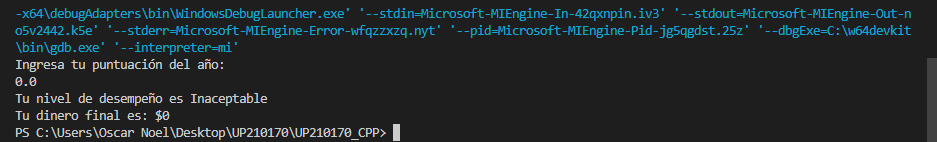
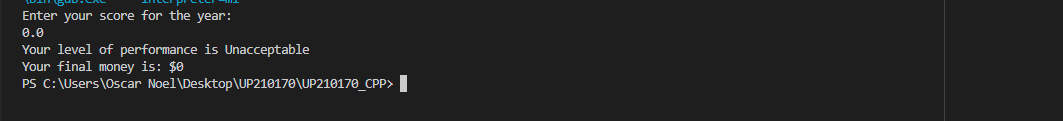
Unidad 2

diff --git a/U2/04_Pizzeria.cpp b/U2/04_Pizzeria.cpp
@@ -27,35 +27,34 @@ using namespace std;
 int main (){
     int pizza;
     int ingrediente;
-    string ingre = "Pimiento" "Tofu";
-    string ingreno = "Peperoni" "Jamón" "Salmón";
-    string pizzav = "Vegetariana";
-    string pizzan = "No Vegetariana";
+    string ingre = "Pimiento" "Tofu" "Peperoni" "Jamón" "Salmón";
+    string pizzav = "Vegetarian" "No Vegetarian";
     char nombre [20];
 
-    cout << "BIENVENIDOS A PIZZAS ROBERT " << endl;
+    cout << " WELCOME TO PIZZAS ROBERT " << endl;
     cout << "------------------------------------" << endl;
 
     //Input
-    cout << "\nSea usted bienvenido, Cuál es su nombre?" << endl;
+    cout << "\nWelcome, What her name?" << endl;
     cin >> nombre;
 
 
-    cout << "\n\n Menú de opciones" << endl;
-    cout << "1. Vegetariana" << endl;
-    cout << "2. No Vegetariana" << endl;
+    cout << "\n\n Option Menu" << endl;
+    cout << "1. Vegetarian" << endl;
+    cout << "2. No Vegetarian" << endl;
 
-    cout << "\n\nIngrese una opcion de pizza: " << endl;
+    cout << "\n\nEnter a pizza option: " << endl;
     cin >> pizza;
     
     //Processing 
     if((pizza == 1) || (pizza == 2)){
         if (pizza == 1){
-        cout << "\nIngredientes de una pizza vegetariana, que incluye (Mozarella y Tomate) Elige uno: " << endl;
+        pizzav = "Vegetarian";
+        cout << "\nIngredients of a vegetarian pizza, it includes (Mozarella y Tomate) choose one: " << endl;
         cout << "1. Pimiento" << endl;
         cout << "2. Tofu" << endl;
 
-        cout << "\nIngrediente que deseas agregar:" << endl;
+        cout << "\nIngredient you want to add:" << endl;
         cin >> ingrediente;
 
         if(ingrediente == 1){
@@ -65,41 +64,41 @@ int main (){
             ingre = "Tofu";
         }
 
-        //Output
-        cout << "\nEstimado cliente " << nombre << endl;
-        cout << "Su orden es: " << endl;
-        cout << "Una pizza " << pizzav << endl;
-        cout << "Con estos ingredientes Mozarella, Tomate y " << ingre << endl;
+ 
+      
        }
 
 
        if(pizza == 2){
-        cout << "\nIngredientes de una pizza no vegetariana, que incluye (Mozarella y Tomate) Elige uno: " << endl;
+        pizzav = "No Vegetarian";
+        cout << "\nIngredients of a no vegetarian pizza, it includes (Mozarella y Tomate) choose one: " << endl;
         cout << "1. Peperoni" << endl;
         cout << "2. Jamón" << endl;
         cout << "3. Salmón" << endl;
 
-        cout << "\nIngrediente que deseas agregar:" << endl;
+        cout << "\nIngredient you want to add:" << endl;
         cin >> ingrediente;
         
         if(ingrediente == 1){
-            ingreno = "Peperoni";
+            ingre = "Peperoni";
         }
         else if(ingrediente == 2){
-            ingreno = "Jamón";
+            ingre = "Jamón";
         }
         else if(ingrediente == 3){
-            ingreno = "Salmón";
+            ingre = "Salmón";
         }
  
-        //Output
-        cout << "\nEstimado cliente " << nombre << endl;
-        cout << "Su orden es: " << endl;
-        cout << "Una pizza " << pizzan << endl;
-        cout << "Con estos ingredientes Mozarella, Tomate y " << ingreno << endl;
-
        }
-       cout << "\n¡GRACIAS POR SU PREFERENCIA!" << endl;
+
+        //Output
+       cout << "\nDear Customer " << nombre << endl;
+       cout << "Your order is: " << endl;
+       cout << "A pizza of " << pizzav << endl;
+       cout << "With these ingredients Mozarella, Tomate y " << ingre << endl;
+       cout << "\n¡Thanks for your preference!" << endl;
+
+
     }else {
         cout << "El valor ingresado no se encontro" << endl;
     }

diff --git a/U2/02_Beneficios.cpp b/U2/02_Beneficios.cpp
@@ -36,7 +36,7 @@ int main(){
     double sueldo1;
 
     //request his annual score 
-    cout << "Ingresa tu puntuación del año: " << endl;
+    cout << "Enter your score for the year: " << endl;
     cin >> puntuacion;
 
     //Operation for salary 
@@ -48,21 +48,21 @@ int main(){
 
         //if de acorde al nivel ingresado
         if(puntuacion == 0.0){
-            cout << "Tu nivel de desempeño es Inaceptable" << endl;
+            cout << "Your level of performance is Unacceptable" << endl;
         }
         else if(puntuacion == 0.4){
-            cout << "Tu nivel de desempeño es Aceptable" << endl;
+            cout << "Your level of performance is Acceptable" << endl;
         }
         else if(puntuacion >= 0.6){
-            cout << "Tu nivel de desempeño es Meritorio" << endl;
+            cout << "Your level of performance is Meritorious" << endl;
         }
 
         //Output
-        cout << "Tu dinero final es: " << "$" << sueldo1 << endl;
+        cout << "Your final money is: " << "$" << sueldo1 << endl;
     }
         
     }else{
-        cout << "El valor que ingreso es incorrecto" << endl;
+        cout << "The value your entered is incorrect" << endl;
     }
         
     return 0;

diff --git a/U2/READMEU2.md b/U2/READMEU2.md
@@ -90,7 +90,7 @@
 ## Input (c++)
 ```c++
     //request his annual score 
-    cout << "Ingresa tu puntuación del año: " << endl;
+    cout << "Enter your score for the year: " << endl;
     cin >> puntuacion;
 ```
 
@@ -102,25 +102,25 @@
 
         //if de acorde al nivel ingresado
         if(puntuacion == 0.0){
-            cout << "Tu nivel de desempeño es Inaceptable" << endl;
+            cout << "Your level of performance is Unacceptable" << endl;
         }
         else if(puntuacion == 0.4){
-            cout << "Tu nivel de desempeño es Aceptable" << endl;
+            cout << "Your level of performance is Acceptable" << endl;
         }
         else if(puntuacion >= 0.6){
-            cout << "Tu nivel de desempeño es Meritorio" << endl;
+            cout << "Your level of performance is Meritorious" << endl;
         }
     }
         
     }else{
-        cout << "El valor que ingreso es incorrecto" << endl;
+        cout << "The value your entered is incorrect" << endl;
     }
 ```
 
 ## Output
 ```c++
     //Output
-    cout << "Tu dinero final es: " << "$" << sueldo1 << endl;
+    cout << "Your final money is: " << "$" << sueldo1 << endl;
 ```
 
 ## Explanation 
